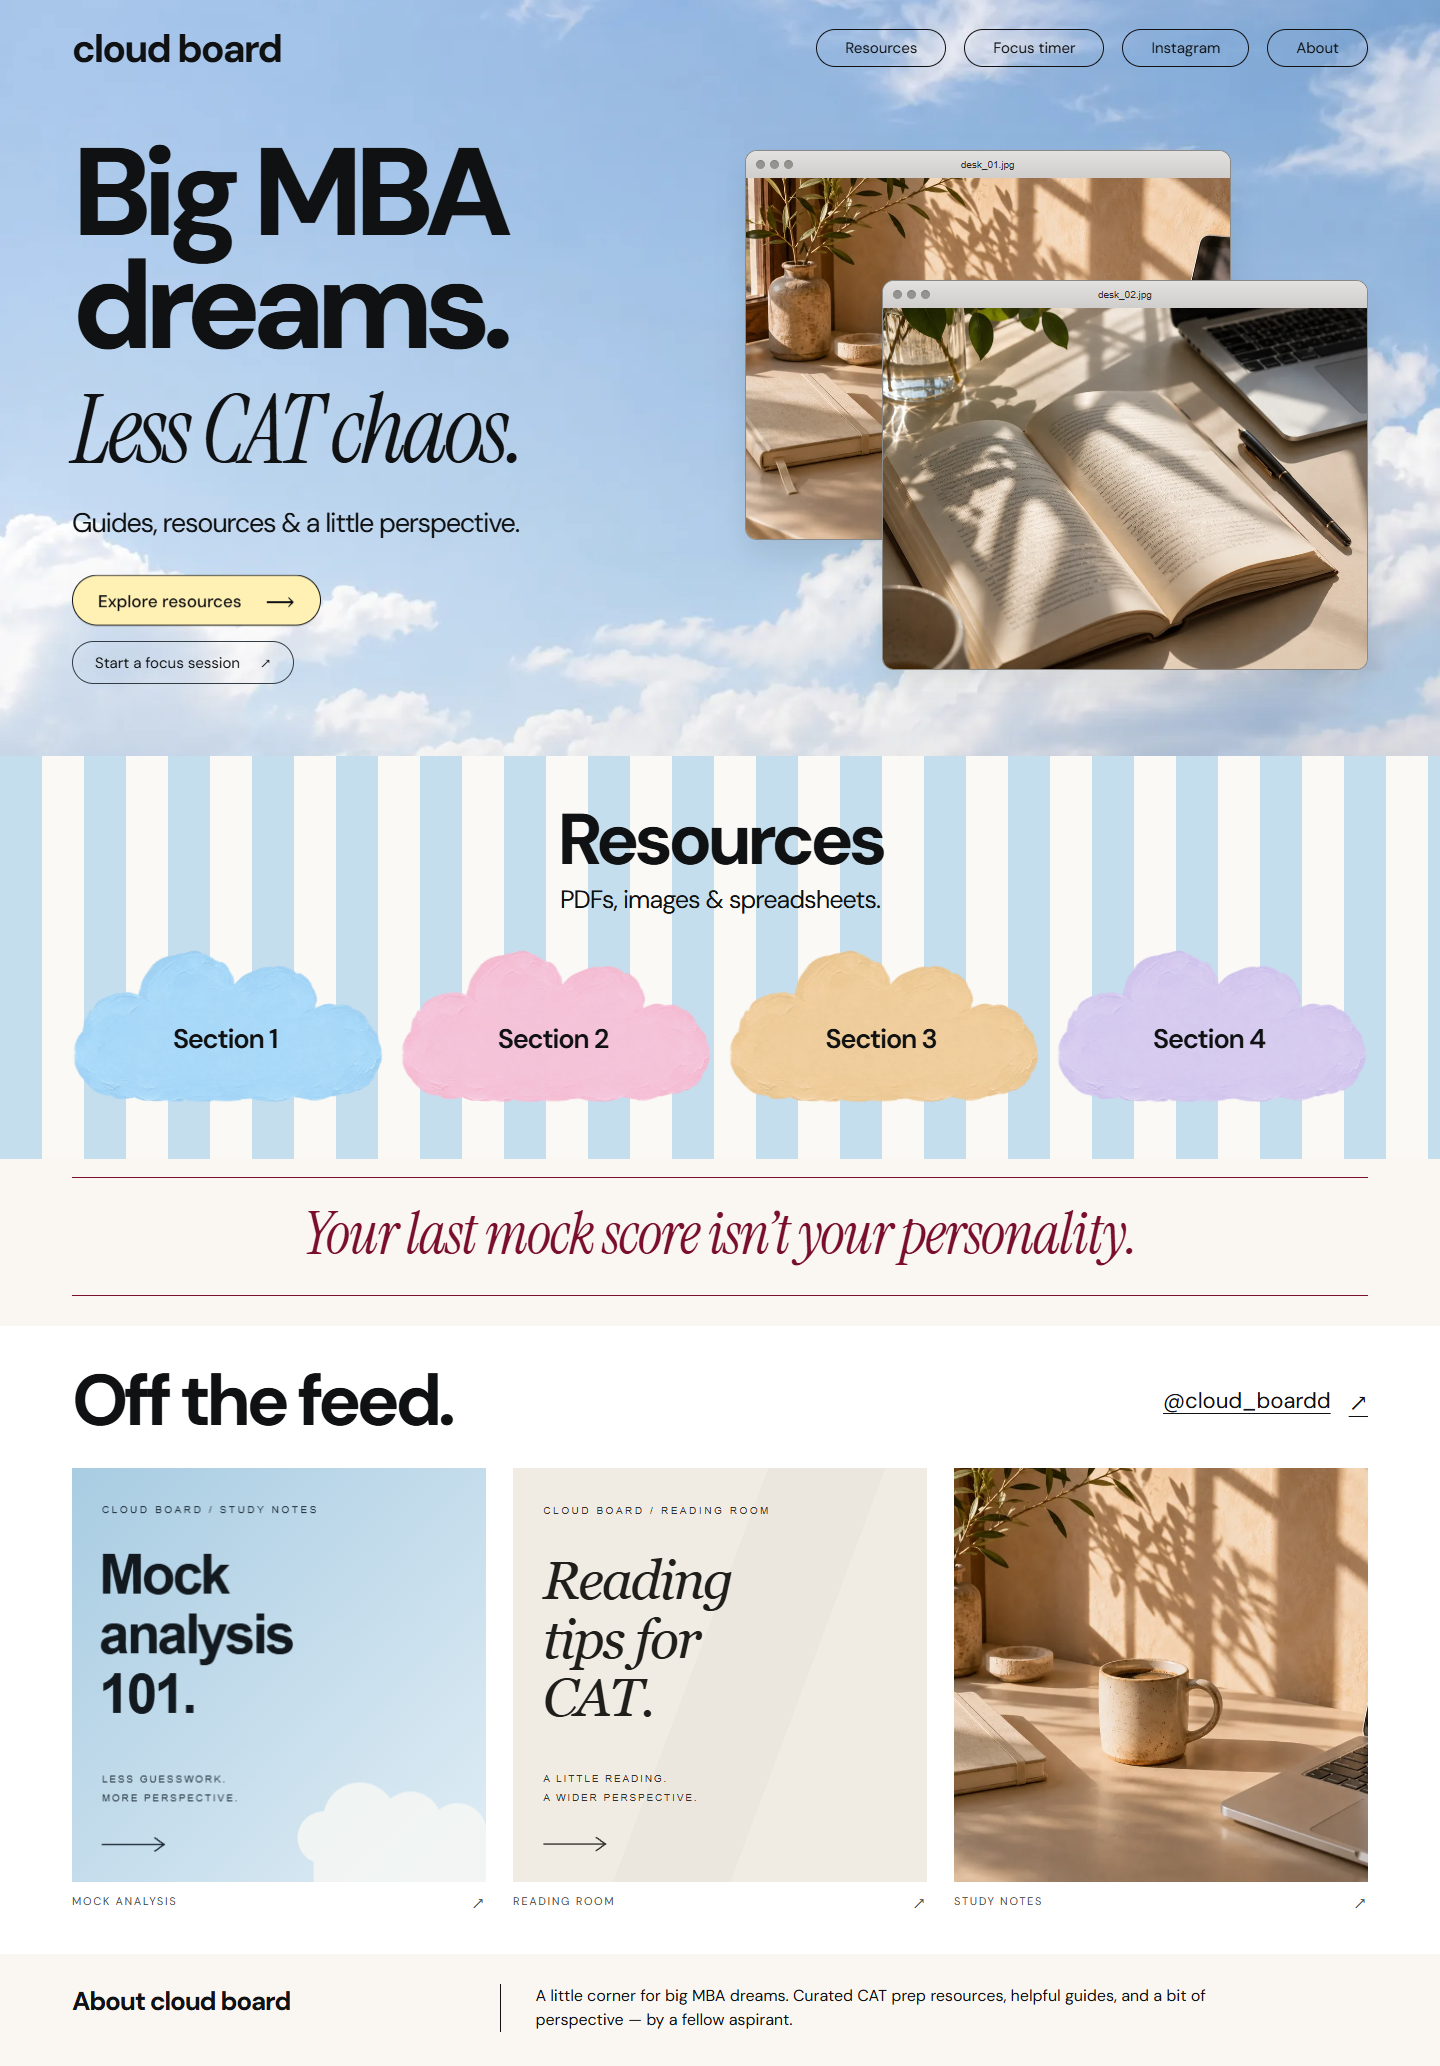
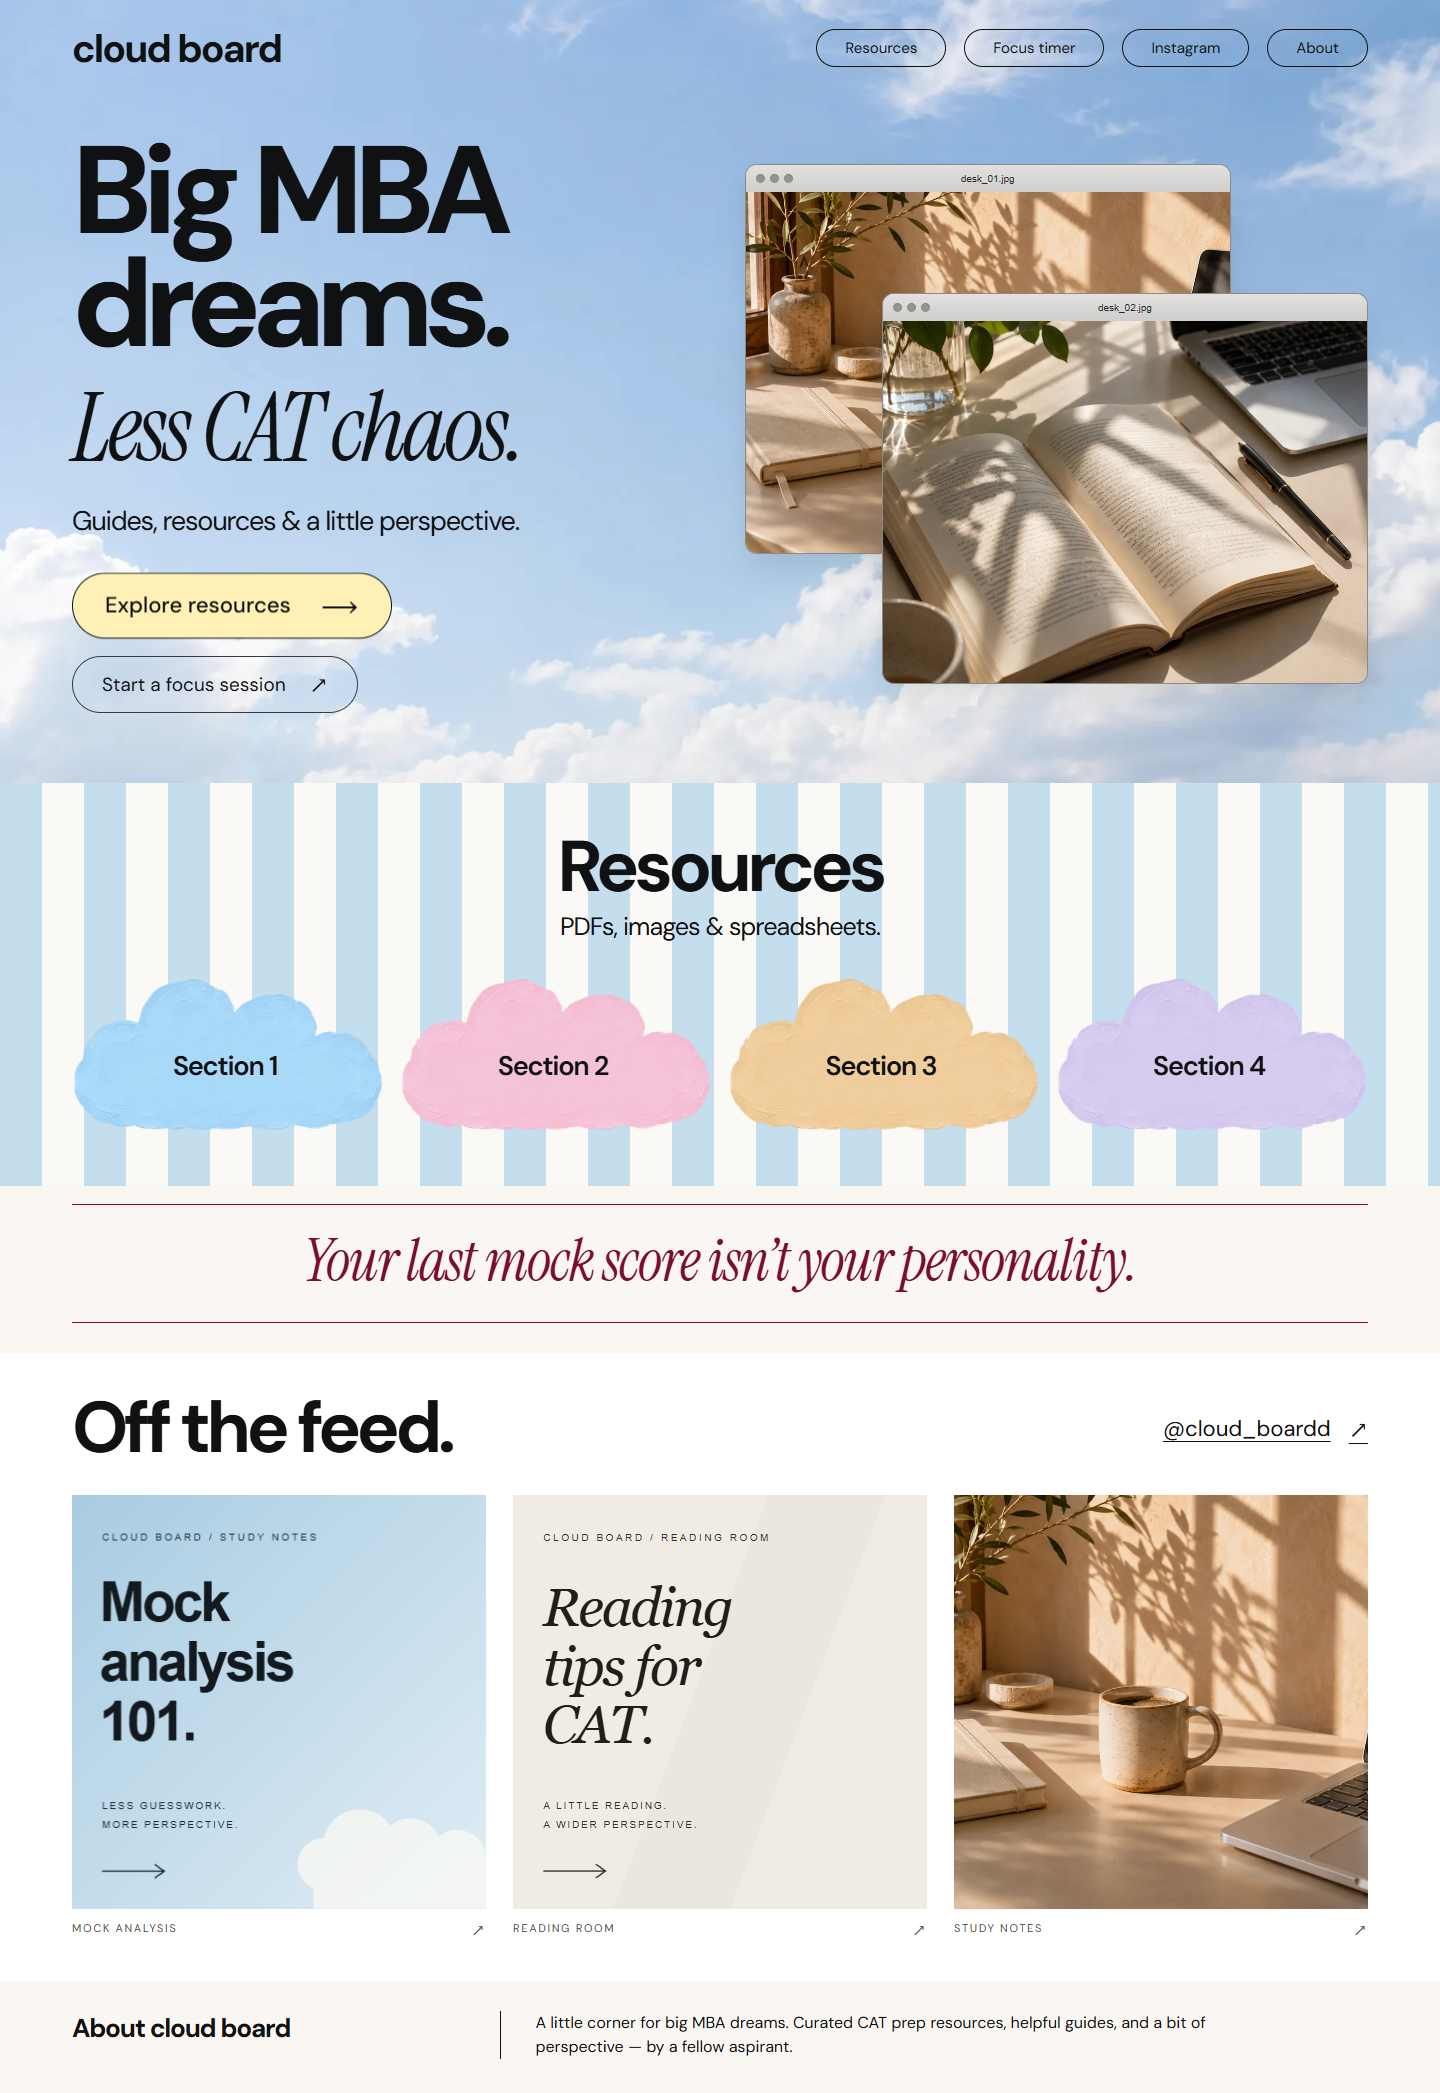
Enlarge homepage action buttons and record Vercel deployment

diff --git a/src/app/globals.css b/src/app/globals.css
@@ -14,3 +14,9 @@
 @media(max-width:1000px){.site-header{height:80px}.nav-pill{padding:8px 20px}.site-header nav{gap:10px}.hero{min-height:560px;padding-top:35px;padding-bottom:50px}.hero h1{font-size:8.65vw}.hero-photos{height:400px}.hero-copy>p{font-size:20px;max-width:320px;line-height:1.35}.photo-window{width:82%}.cloud-link{min-height:140px}.cloud-label{font-size:21px}.resources-section{padding-top:35px}.footer-inner{grid-template-columns:1fr 2fr;gap:20px}.site-footer p{padding-left:20px;font-size:14px}.resource-list{grid-template-columns:repeat(2,minmax(0,1fr))}}
 @media(max-width:640px){.wrap{width:89%}.site-header{height:auto;min-height:100px;align-items:start;padding-top:22px;padding-bottom:14px;gap:14px;flex-direction:column}.wordmark{font-size:29px;letter-spacing:-1.5px}.site-header nav{gap:8px;width:100%}.nav-pill{font-size:12px;padding:7px 18px;min-height:32px}.hero{display:flex;flex-direction:column;align-items:stretch;padding-top:28px;padding-bottom:40px;gap:33px;min-height:0}.hero h1{font-size:clamp(66px,15.5vw,98px);letter-spacing:-.075em}.hero h1 em{font-size:.74em;margin-top:12px}.hero-copy>p{font-size:18px;max-width:none;margin-top:14px;margin-bottom:24px;letter-spacing:-.035em}.button{font-size:15px;min-height:47px;padding:11px 20px;gap:20px}.hero-photos{width:100%;height:auto;aspect-ratio:1.45;align-self:auto;margin-top:0}.photo-window{width:67%;border-radius:8px}.window-bar{height:23px;font-size:8px}.window-dots{left:8px;gap:4px}.window-dots i{width:7px;height:7px}.window-one{left:0;top:0}.window-two{right:0;bottom:0}.resources-section{padding:30px 0 24px;background-size:auto;background-image:repeating-linear-gradient(90deg,#c5deee 0px,#c5deee 27px,#faf9f5 27px,#faf9f5 54px)}.section-heading h2,.posts-heading h2{font-size:43px}.section-heading p{font-size:17px;margin-top:5px}.cloud-grid{grid-template-columns:repeat(2,minmax(0,1fr));gap:0 8px;margin-top:12px}.cloud-link{min-height:112px;aspect-ratio:1.45}.cloud-label{font-size:19px;top:8px}.pep-talk{padding:15px 0 20px}.pep-talk p{font-size:34px;line-height:1.05;padding:20px 8px 24px}.posts-section{padding:25px 0 28px}.posts-heading{align-items:flex-start;flex-direction:column;gap:10px;margin-bottom:22px}.text-link{font-size:17px;gap:15px}.posts-grid{grid-template-columns:1fr;gap:26px}.post-caption{padding-top:10px;font-size:10px}.site-footer{padding-block:26px}.footer-inner{grid-template-columns:1fr;gap:13px}.site-footer h2{font-size:23px}.site-footer p{border-left:0;padding:0;font-size:14px;line-height:1.6}.resource-intro{padding-top:28px;padding-bottom:40px}.resource-intro>.text-link{margin-bottom:28px}.resource-intro h1{font-size:65px}.resource-intro>p:last-child{font-size:17px;max-width:270px;line-height:1.5}.resource-main{padding-top:30px;padding-bottom:25px}.empty-shelf{padding-inline:0}.empty-shelf h2{font-size:32px}.empty-shelf .eyebrow{font-size:10px}.other-sections .cloud-grid{grid-template-columns:repeat(2,minmax(0,1fr))}.resource-list{grid-template-columns:1fr}.not-found{padding-block:75px}}
 @media(prefers-reduced-motion:reduce){html{scroll-behavior:auto}*,*::before,*::after{animation:none!important;transition:none!important}.cloud-link:hover,.photo-window:hover,.button:hover,.nav-pill:hover{transform:none}.post-card:hover .post-image img{transform:none}}
+/* Hero calls to action: larger type, arrows, and click targets. */
+.hero-copy > .button{font-size:22px;min-height:64px;padding:16px 32px;gap:30px}
+.hero-copy > .button span[aria-hidden]{font-size:32px}
+.hero-copy > .hero-focus-link{display:flex;align-items:center;justify-content:center;width:fit-content;gap:24px;font-size:19px;min-height:57px;padding:14px 29px;margin-top:16px}
+.hero-copy > .hero-focus-link span{font-size:25px;line-height:1;margin-left:0}
+@media(max-width:640px){.hero-copy > .button{font-size:19px;min-height:58px;padding:14px 25px;gap:24px}.hero-copy > .button span[aria-hidden]{font-size:28px}.hero-copy > .hero-focus-link{font-size:17px;min-height:52px;padding:12px 24px;gap:20px}.hero-copy > .hero-focus-link span{font-size:23px}}

diff --git a/logs.md b/logs.md
@@ -38,3 +38,10 @@
 - Excluded the personal DesignBoard reference folder from Git uploads.
 - Initial site and timer upload completed on GitHub at commit 0888e27. Vercel workspace authorization is pending.
 - Verified the copied E: project with npm ci, content/TypeScript checks, and the full production build; all passed, with zero dependency vulnerabilities reported.
+
+## 2026-11-14 — Live deployment and hero button refinement
+
+- Vercel project cloud-boardd is linked to the GitHub repository and deployed successfully from main. Public homepage and focus page returned HTTP 200 without sign-in at https://cloud-boardd.vercel.app.
+- Working folder remains E:\CloudBoard; C: is only the earlier backup.
+- At the user's request, enlarged the hero Explore resources and Start a focus session buttons, including label text, padding, click targets, and arrows. Used smaller responsive sizes on phones.
+- Hero-button update: production build and all six homepage/resource desktop/mobile browser checks passed; reviewed the updated desktop screenshot. Publishing through the connected GitHub main branch.

diff --git a/architecture.md b/architecture.md
@@ -70,3 +70,7 @@ Countdown changes are not announced every second by screen readers. Session cont
 ## Later versions
 
 Forms, newsletter, featured resources, trackers, business metrics, and an editing dashboard are intentionally deferred. A future dashboard can replace the content lists with a CMS and file storage while preserving page URLs and components. This is a future integration point, not an implemented backend.
+
+## Current deployment
+
+Primary project folder: E:\CloudBoard. GitHub: https://github.com/NiketSharma-TGS/cloud_boardd (main). Vercel project: cloud-boardd, ID prj_S4LY5TqiViP6TkMRhOjaktNSyqyK, workspace the-glitch-syndicate. Public URL: https://cloud-boardd.vercel.app. The GitHub integration deploys changes pushed to main. Domain selection is deferred. No environment variables are required.

diff --git a/README.md b/README.md
@@ -28,4 +28,4 @@ npm run test:ui
 
 Browser checks use an already installed Google Chrome; no separate browser download is required. They start a separate preview on port 3100.
 
-Read [architecture.md](architecture.md) for content editing and deployment details. [logs.md](logs.md) records decisions and verification. No publication has been performed.
+Read [architecture.md](architecture.md) for content editing and deployment details. [logs.md](logs.md) records decisions and verification. Live site: https://cloud-boardd.vercel.app. Primary working folder: E:\CloudBoard. Updates to main deploy through the Vercel GitHub integration.
